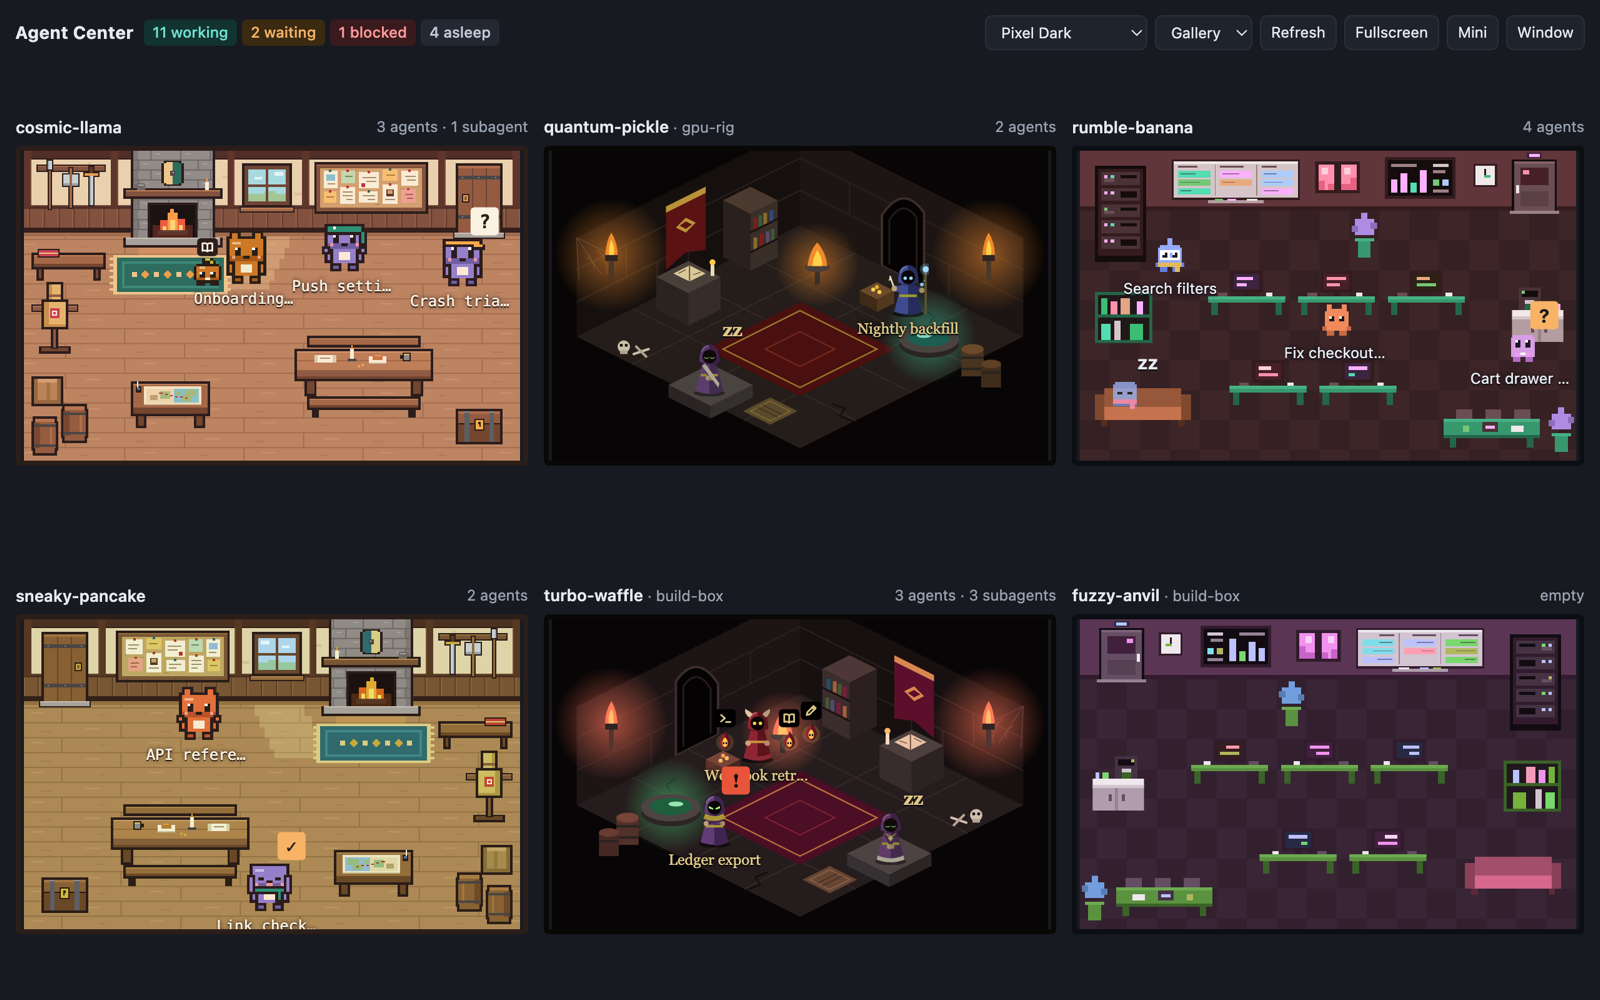
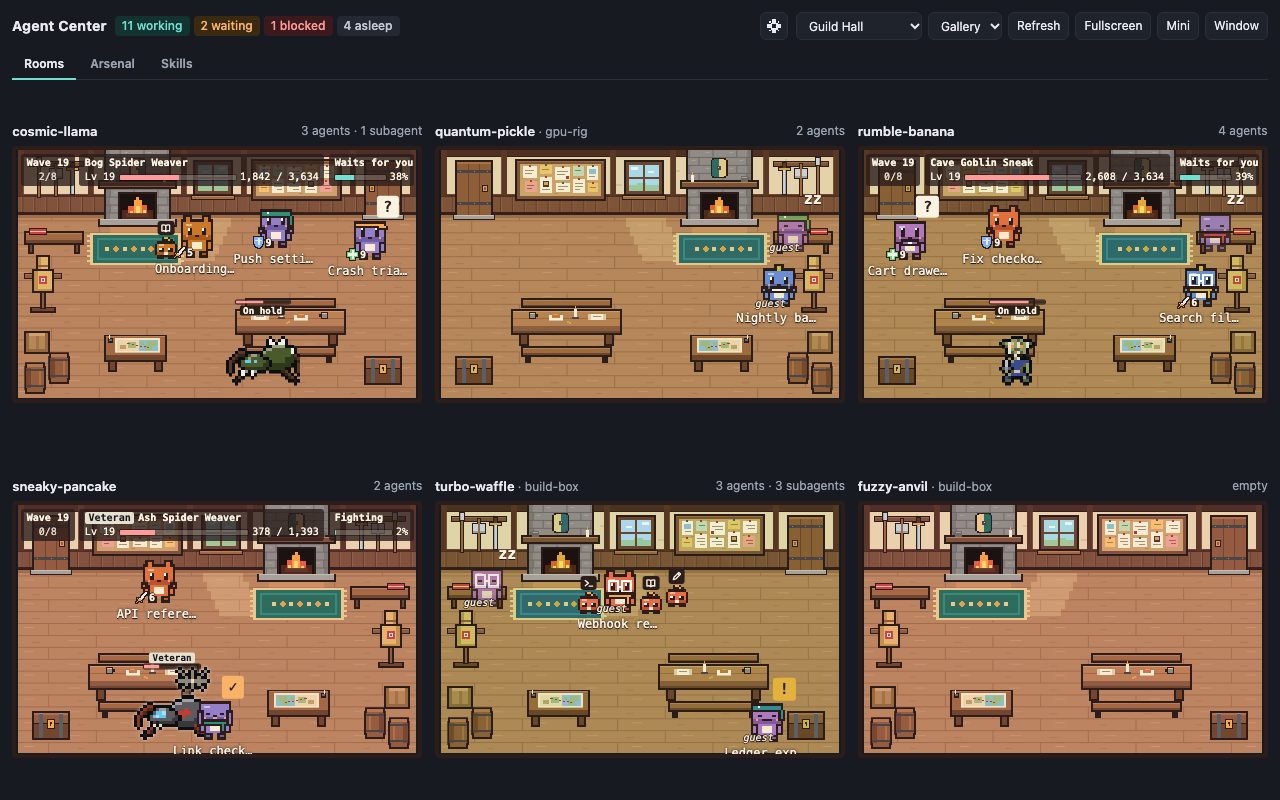
docs: present the plugin as agent rooms and an auto-battler
The README opens with the two ways to use the plugin side by side, and
game mode gets its own section: how it plays, the bestiary with the
races, ranks and named bosses, and how to turn it on. The listing gets
the new name, a description that names both modes, a game-mode cover
and a screenshot of the bosses.

diff --git a/README.md b/README.md
@@ -1,15 +1,25 @@
 <div align="center">
 
-# Agent Center
+# Agent Center & Auto-Battler
 
-**See your coding agents at work, and let them play if you like.** A plugin for
-[Orca](https://github.com/stablyai/orca) that gives every project its own little room, where
-each agent is a character acting out what it is doing right now. Turn on the optional game mode
-and the rooms become an auto-battler that runs on the work your agents do.
+**A live room for every project in [Orca](https://github.com/stablyai/orca), where your coding
+agents are characters acting out their work, and an idle auto-battler that runs on what they do.**
 
-![Six project rooms in Gallery view, on three different themes](docs/screenshots/gallery.png)
+![Six project rooms in game mode: each room's party of agents fights its monster](docs/screenshots/game-gallery.png)
 
 </div>
+
+## Two ways to use it
+
+| Just watch | Play |
+|:---:|:---:|
+| ![Six project rooms, each with its agents as characters](docs/screenshots/gallery.png) | ![The same rooms in game mode, with monsters, waves and health bars](docs/screenshots/game-gallery.png) |
+| **The default.** The rooms are a live picture of your agents and nothing else. No numbers, no progress, nothing to manage. One glance tells you who is busy, who is waiting on you and who has gone quiet. | **Game mode.** The same rooms become an auto-battler. Every agent is a character with a class and a level, the agents working in a room fight its monsters, the idle ones gather, and the loot buys gear. It plays by itself while you work. |
+
+Game mode is off until you turn it on. Turning it off brings the plain rooms back and keeps
+your progress for next time.
+
+## The rooms
 
 An agent editing files sits at a desk. One searching the codebase walks to the bookshelf. One
 running a command stands at the server rack. When it needs you, it stops and raises a **?**. When
@@ -19,18 +29,6 @@ its colours, and vanish when they finish.
 
 One glance tells you which of your projects are busy, which are waiting on you, and which have
 gone quiet, across every machine Orca is connected to.
-
-## Two ways to use it
-
-- **Just leave them there.** This is the default. The rooms are a live picture of your agents
-  and nothing else: no numbers, no progress, nothing to manage.
-- **Game mode.** An idle auto-battler on top of the same rooms. Each agent becomes a character
-  with a class, a level and attributes; the agents working in a room fight its monsters wave
-  after wave, the idle ones gather materials, and what they earn buys gear and upgrades for the
-  party. It plays by itself while you work. You choose how much to look at it. It is off until
-  you turn it on, and turning it off brings the plain rooms back with your progress kept.
-
-## What you get
 
 - **One room per project.** Worktrees of the same repository share a room, and so does a
   repository cloned inside another one's folder. The room title shows the project and the host
@@ -56,26 +54,69 @@ gone quiet, across every machine Orca is connected to.
   folder with a few files.
 - **Anywhere on screen.** A sidebar panel, a tab next to your terminals, a detached window,
   fullscreen on a spare monitor or tablet, or a small always-on-top window.
-- **An optional auto-battler.** Game mode turns the work your sessions do into levels, fights
-  against monsters, materials and upgrades for each room's party. Off by default. See
-  [Game mode](#game-mode).
 
-## Game mode
+## Game mode: the auto-battler
 
-![Six rooms in game mode: parties, monsters, waves and health bars](docs/screenshots/game-gallery.png)
+You do not play it so much as feed it. Your agents do their work, and the work is what moves
+the game: no clicking is needed, and nothing is lost by ignoring it for a day.
 
 | Rooms | Arsenal | Skills |
 | --- | --- | --- |
 | ![A room's party facing its monster, with the wave and the monster's health](docs/screenshots/game-rooms.png) | ![The chest with its item slots and the materials the world holds](docs/screenshots/game-arsenal.png) | ![The world level and the work skills with their progress](docs/screenshots/game-skills.png) |
 
-Off by default. When it is on, each room's agents form a party: the tokens their sessions spend
-give experience, working agents fight the room's monsters, idle ones gather materials, and the
-materials buy upgrades. Progress is kept per world and survives restarts. The rules are in
-[docs/GAME.md](docs/GAME.md).
+### How it plays
 
-To turn it on, open Orca's Settings, go to Plugins, then Agent Center, and turn on **Game mode**.
+- **Every agent is a character.** A session gets a class when it first works (Fighter, Mage,
+  Guardian or Healer, picked to balance its room's party), then levels up and grows seven
+  attributes as it spends tokens. Click a character to see its sheet.
+- **Each room is a party fighting waves.** The agents working in a room fight its monster.
+  Every kill moves the wave on, every tenth wave brings a boss, and a party that runs out of
+  stamina rests before it goes again. When an agent stops to wait for you, its party holds.
+- **What your agents do decides what grows.** Writing code raises Forge, reading raises Lore,
+  running commands raises Engineering, thinking raises Arcana and delegating raises Command.
+  Each one makes a different part of the party stronger, and together they set the world level
+  that monsters and prices follow.
+- **Idle agents gather.** A character whose agent has finished takes a trade (mining, fishing,
+  farming, woodcutting, hunting or runecraft) and brings materials home.
+- **Loot, a chest and upgrades.** Monsters drop materials and gear. Each room has a chest;
+  a new character takes the best free item of each slot by itself. Materials upgrade items and
+  buy upgrades for the whole party, by hand or with auto-spend.
+- **Sessions retire.** Close a terminal and its character retires into the room's hall, leaves
+  its gear in the chest for the next one and adds a small bonus to the room's gathering for
+  good.
+- **Worlds keep things apart.** Progress belongs to a world, a group of rooms you choose. Put
+  work and side projects in different worlds, or leave a room out of the game altogether.
+- **No level cap.** At level 99 a skill can be prestiged for a star and started again, stronger.
+
+### The bestiary
+
+![Named bosses of the roster, each with its own fixed look](docs/screenshots/game-bosses.png)
+
+- **20 races**, from goblins, orcs and trolls to dragons, golems and wood wardens. A monster is
+  put together from separate parts (head, body, legs, outfit, headgear, what it holds, colours),
+  so two of the same race rarely look alike, and its name says what it is: a "Moss Troll
+  Brute", an "Ashen Skeleton Archer".
+- **55 named bosses**, each with a fixed look and a name of its own. A room meets all of them
+  before any comes back.
+- **Ranks you can read by the glow.** Most monsters are plain. A veteran has a faint outline,
+  an elite a halo in the colour of its special trait, a champion a stronger one, a boss a red
+  aura, and now and then a boss arrives legendary, in gold. The rarer the rank, the tougher the
+  fight and the better the reward.
+- A room's theme adds a few monsters of its own on top.
+
+![The same monster as plain, veteran, elite and champion, and a boss as boss and legendary](docs/screenshots/game-ranks.png)
+
+### Turning it on
+
+Open Orca's Settings, go to Plugins, then Agent Center, and turn on **Game mode**. The panel
+gains three tabs: **Rooms**, **Arsenal** (chest, party and camp) and **Skills**. The cog in the
+panel's header opens the game's own settings: worlds, auto-spend and the save file.
+
 **Game mode: keep conversation titles** keeps a finished session's title on its retired
-character; it is off by default.
+character; it is off by default. Everything the game keeps stays on your computer. The full
+rules and numbers are in [docs/GAME.md](docs/GAME.md).
+
+### Good to know
 
 Where the tokens come from:
 
@@ -166,7 +207,7 @@ names and change the themes. [SECURITY.md](SECURITY.md) lists everything the pag
 
 ## Install
 
-Find **Agent Center** in Orca's plugin directory, or open its page:
+Find **Agent Center & Auto-Battler** in Orca's plugin directory, or open its page:
 <https://orca.dev/plugins/klausbegnis/agent-center>.
 
 To run it from a checkout instead:
